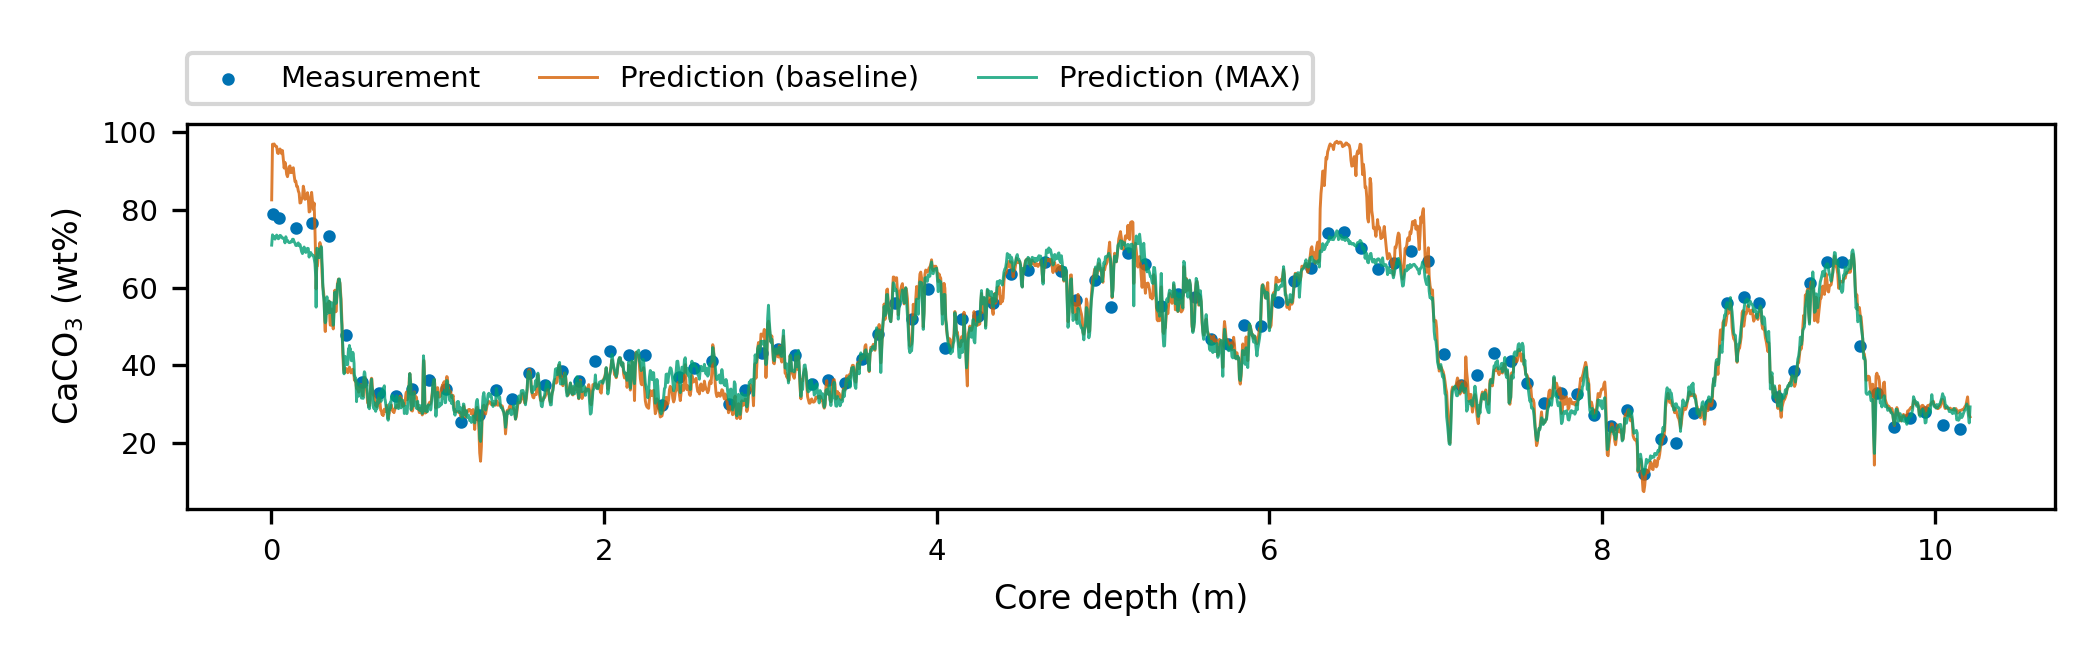
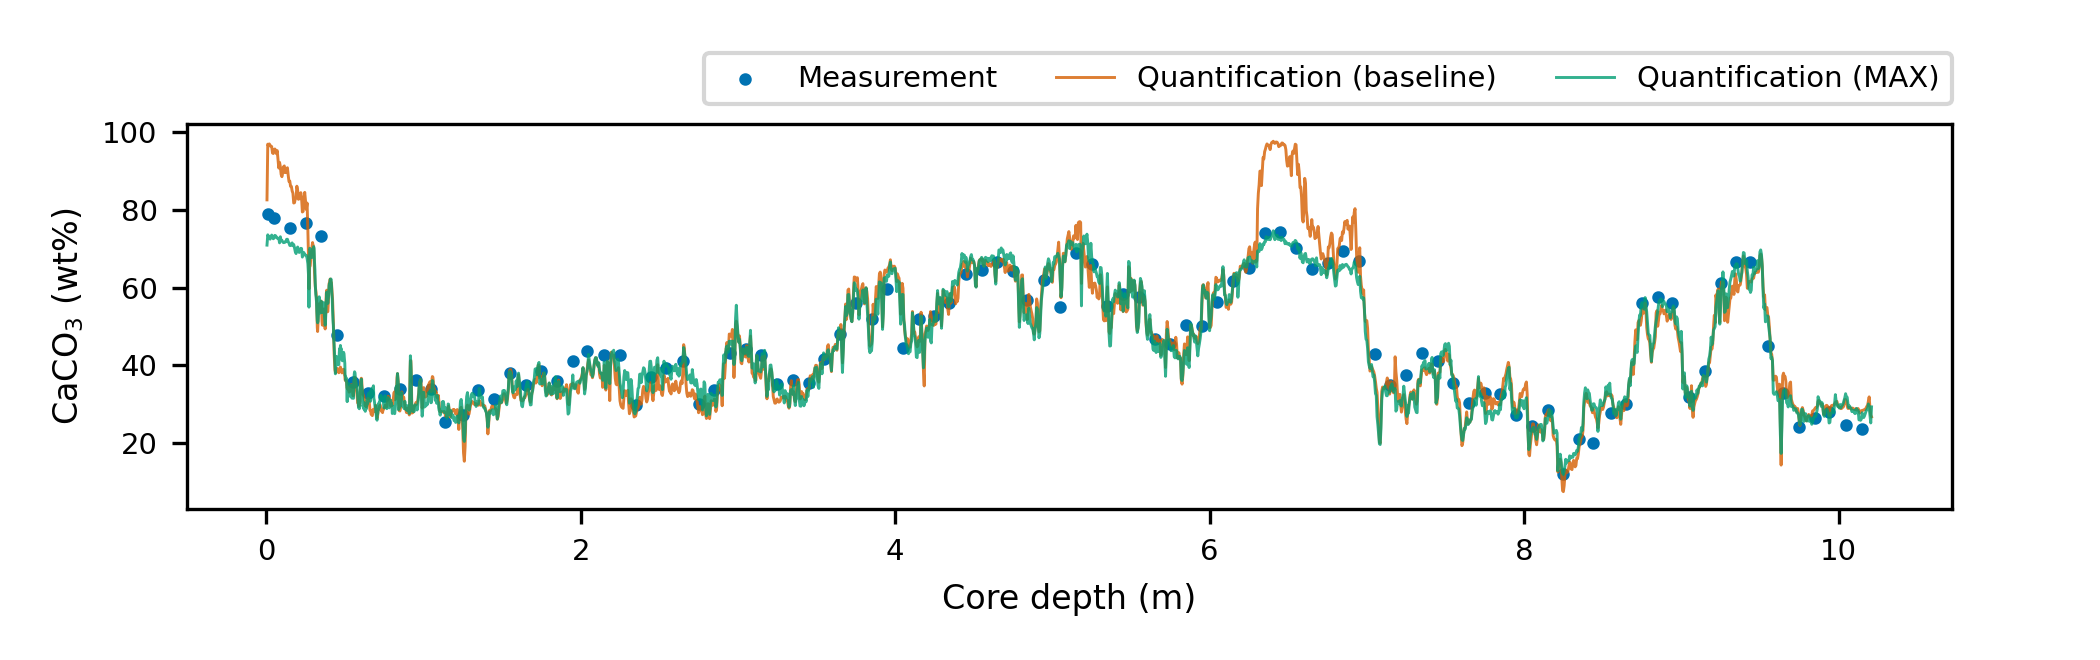
Minor modifications in figures

diff --git a/visualize.py b/visualize.py
@@ -193,7 +193,7 @@ def check_transform():
         mask_un = (mask_un_arr == 1)
 
         # plot the original spectrum
-        ax.plot(kev, spe_arr, alpha=0.9, label="original spectrum",
+        ax.plot(kev, spe_arr, alpha=0.9, label="Original spectrum",
                 c="C0", linewidth=0.4*size[0], zorder=5)
         ax.set_ylim(ylim)
 
@@ -203,14 +203,14 @@ def check_transform():
             ymin=ylim[0],
             ymax=np.repeat(ylim[1], mask_un.sum()),
             color="#D3D3D3",
-            label="masked part",
+            label="Masked part",
             zorder=0
             # alpha=0.1
         )
 
         # plot the reconstructed spectrum
         ax.scatter(kev[mask_un], pred_un_arr[mask_un], alpha=0.6,
-                   label="reconstruction", c="black", s=1/(size[0]*size[1]), zorder=10)
+                   label="Reconstruction", c="black", s=1/(size[0]*size[1]), zorder=10)
 
     for i in range(size[0]):
         axes[i, 0].set_ylabel("Normalized intensity")
@@ -308,7 +308,7 @@ def detailed_performance_mask_ratio_val():
     r2_mean_ratios = r2_mean_df.groupby("mask_ratio").apply(
         lambda x: x["r2_mean"].max(), include_groups=False).copy()
     axes[0].plot(r2_mean_ratios.index, r2_mean_ratios,
-                 label="optimal model", marker="x", alpha=0.7)
+                 label="Optimal model", marker="x", alpha=0.7)
 
     # 1-1 plots
     df = pd.read_csv("files/finetune_pretrained.csv", index_col=0)
@@ -319,14 +319,17 @@ def detailed_performance_mask_ratio_val():
         c=["C0", "gray", "gray"]
     )
 
+    transforms = ["instance_normalize", "normalize", "log"]
+    legend_t = ["InstanceNorm", "ChannelNorm", "Logarithm"]
     for ax, target in zip(axes[1:], ["TOC", "CaCO3"]):
-        for i, t in enumerate(df["transform"].unique()):
+        for i, t in enumerate(transforms):
             mask = (df["transform"] == t) & (df["target"] == target)
             best_r2_df = df[mask].groupby("mask_ratio").apply(
                 lambda x: x.loc[x["r_square"].idxmax()], include_groups=False).copy()
+
             ax.plot(
                 best_r2_df.index, best_r2_df["r_square"],
-                label=t, marker=styles["marker"][i], linestyle=styles["linestyle"][i],
+                label=legend_t[i], marker=styles["marker"][i], linestyle=styles["linestyle"][i],
                 c=styles["c"][i], alpha=0.9)
 
     ylabels = ["Avg. R$^2$", "R$^2$ (TOC)", "R$^2$ (CaCO$_3$)"]
@@ -365,7 +368,7 @@ def performance_data_val():
         ax.plot(data_no, r2_scratch, label="ViT-base",
                 marker="x", ls="--", alpha=0.7, c="gray")
         ax.scatter(data_no[-1], r2_2022[target], marker="^",
-                   label="baseline", alpha=0.7, c="black")
+                   label="Baseline", alpha=0.7, c="black")
 
         ax.text(0.01, 0.92,
                 index, transform=ax.transAxes, fontsize=9, weight='bold')
@@ -622,17 +625,17 @@ def demo_case_study():
         bs['composite_depth_mm']*.001,
         bs['{}_bs'.format(measurement)],
         linewidth=.7, alpha=.8,
-        c='C2', label='Prediction (baseline)')
+        c='C2', label='Quantification (baseline)')
 
     ax.plot(
         max['composite_depth_mm']*.001,
         max['{}_max'.format(measurement)],
         linewidth=.7, alpha=.8,
-        c='C1', label='Prediction (MAX)')
+        c='C1', label='Quantification (MAX)')
 
     ax.set_ylabel('CaCO$_3$ (wt%)')
 
-    ax.legend(loc=(0, 1.05), ncol=3)
+    ax.legend(loc=(0.293, 1.05), ncol=3)
     ax.set_xlabel('Core depth (m)')
     fig.tight_layout()
     fig.savefig('files/predictions_case_{}.png'.format(core))
